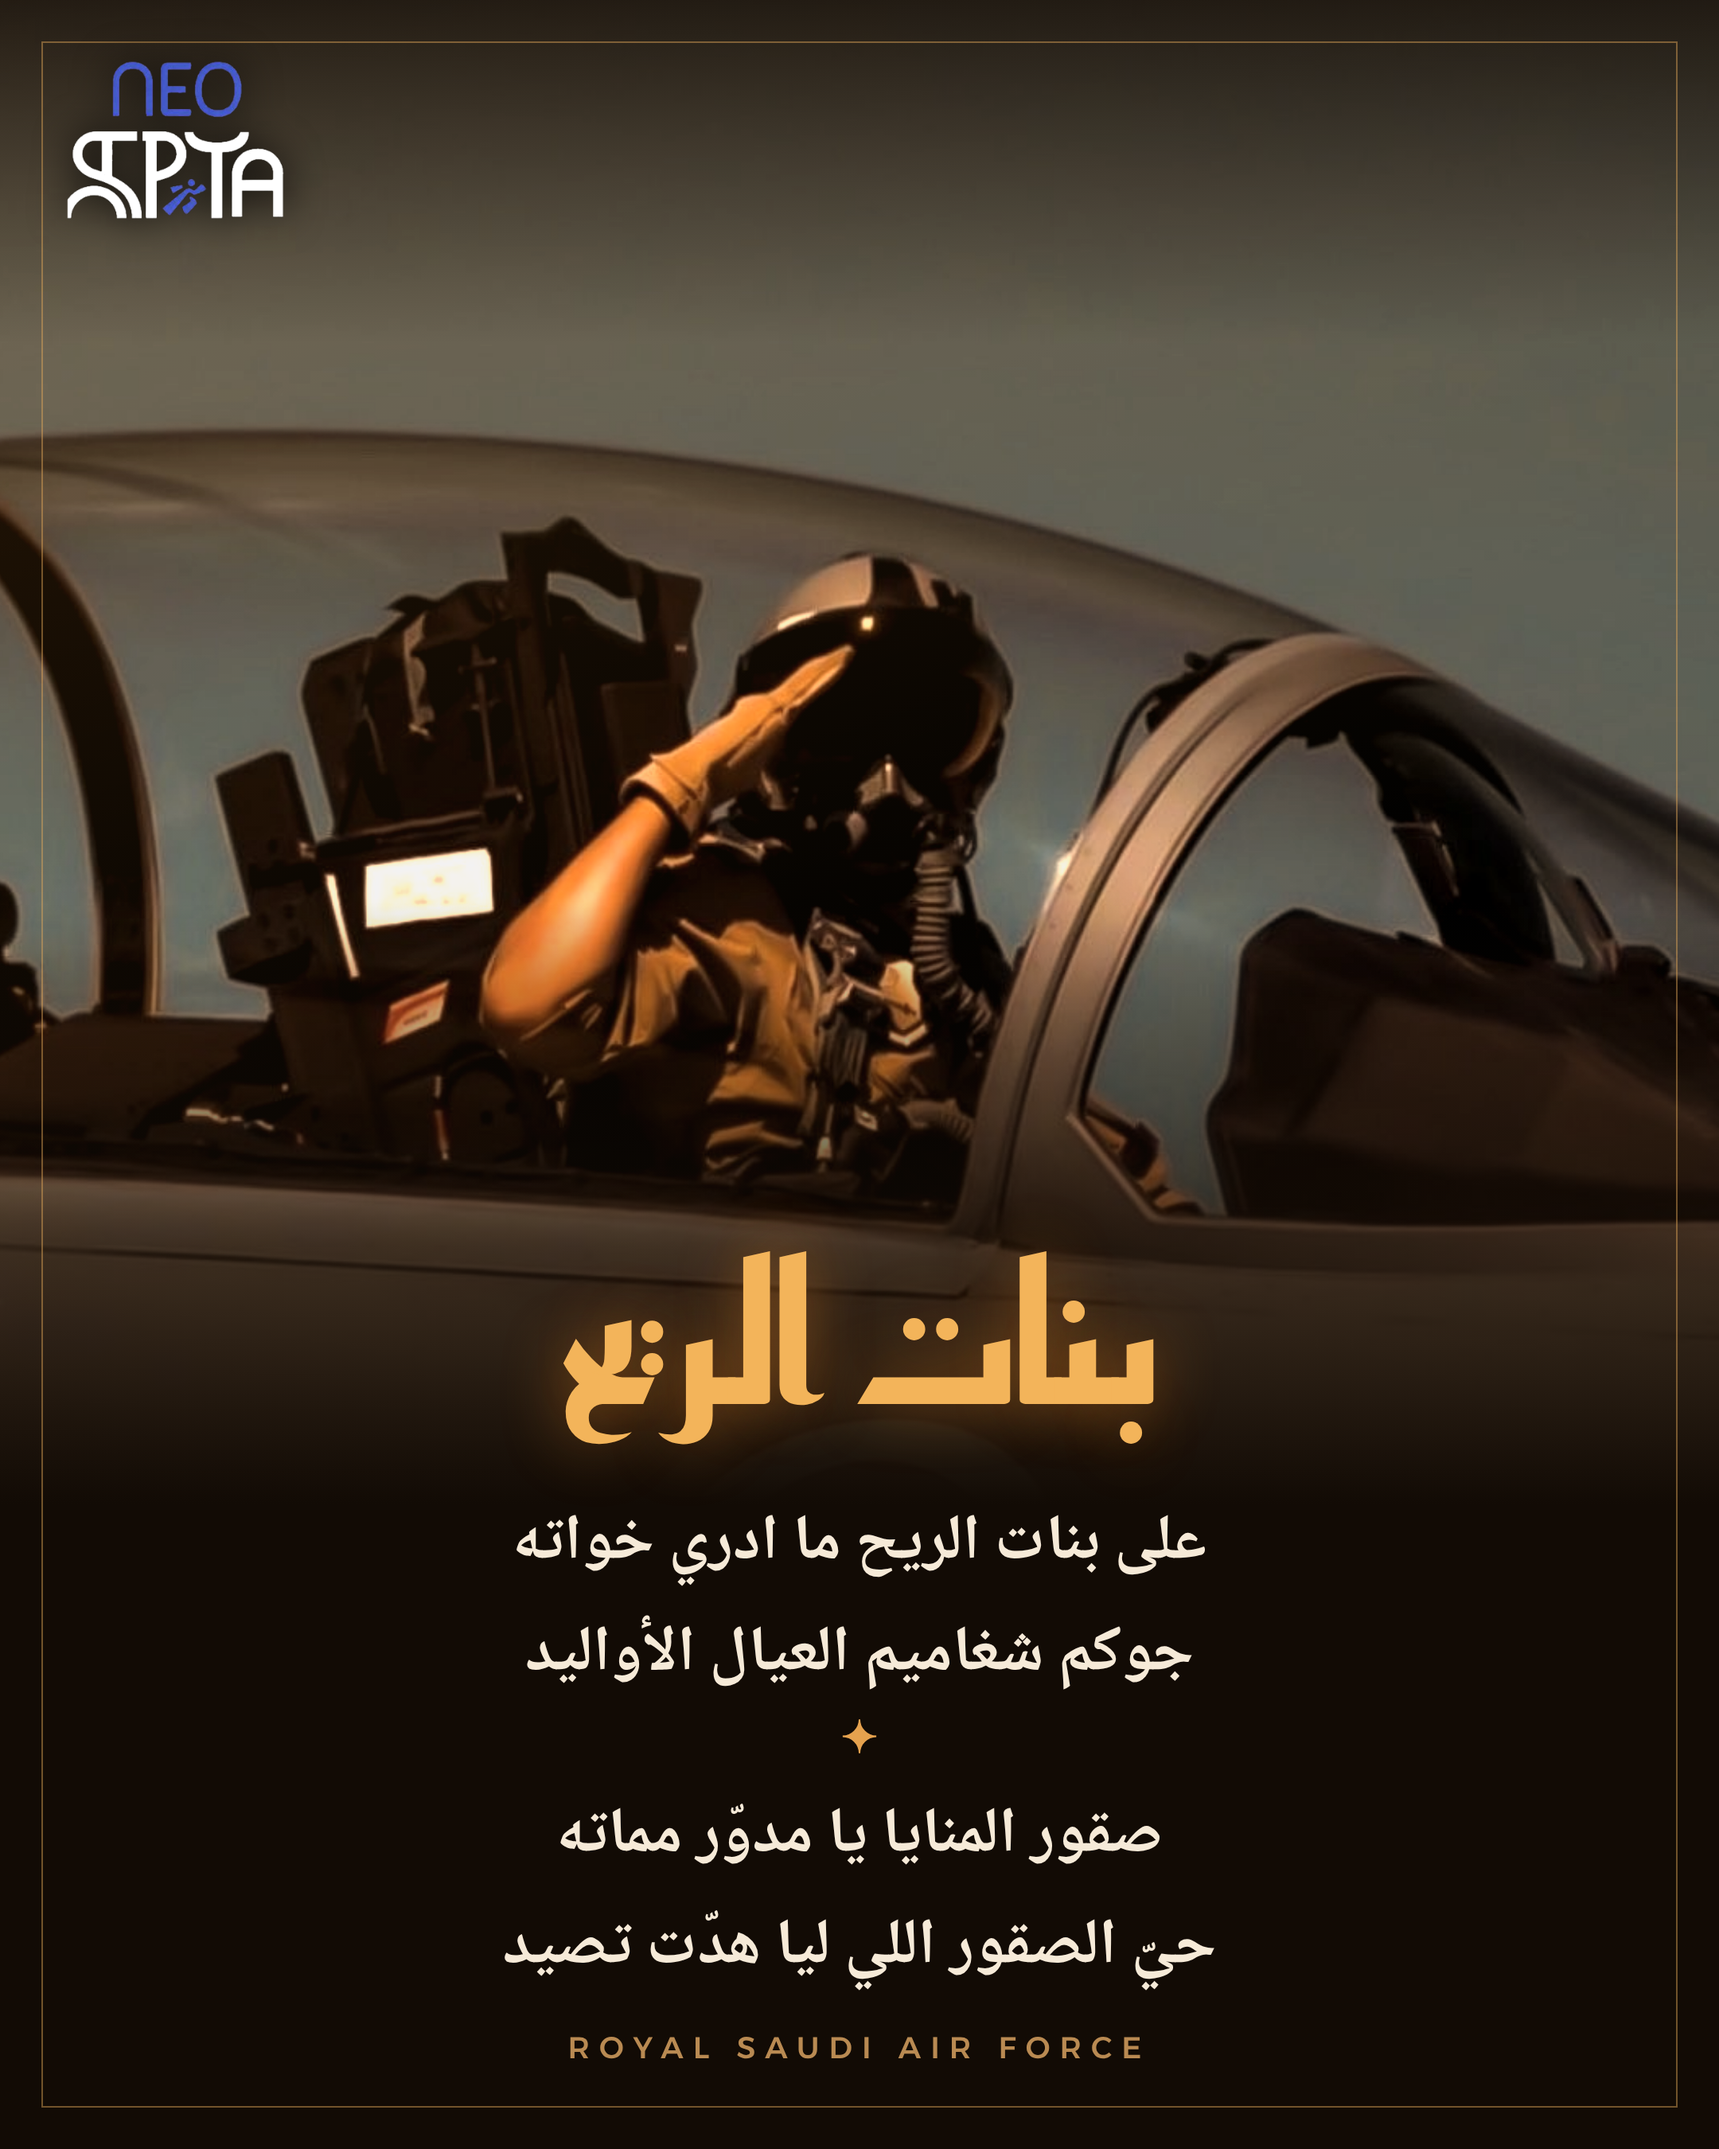
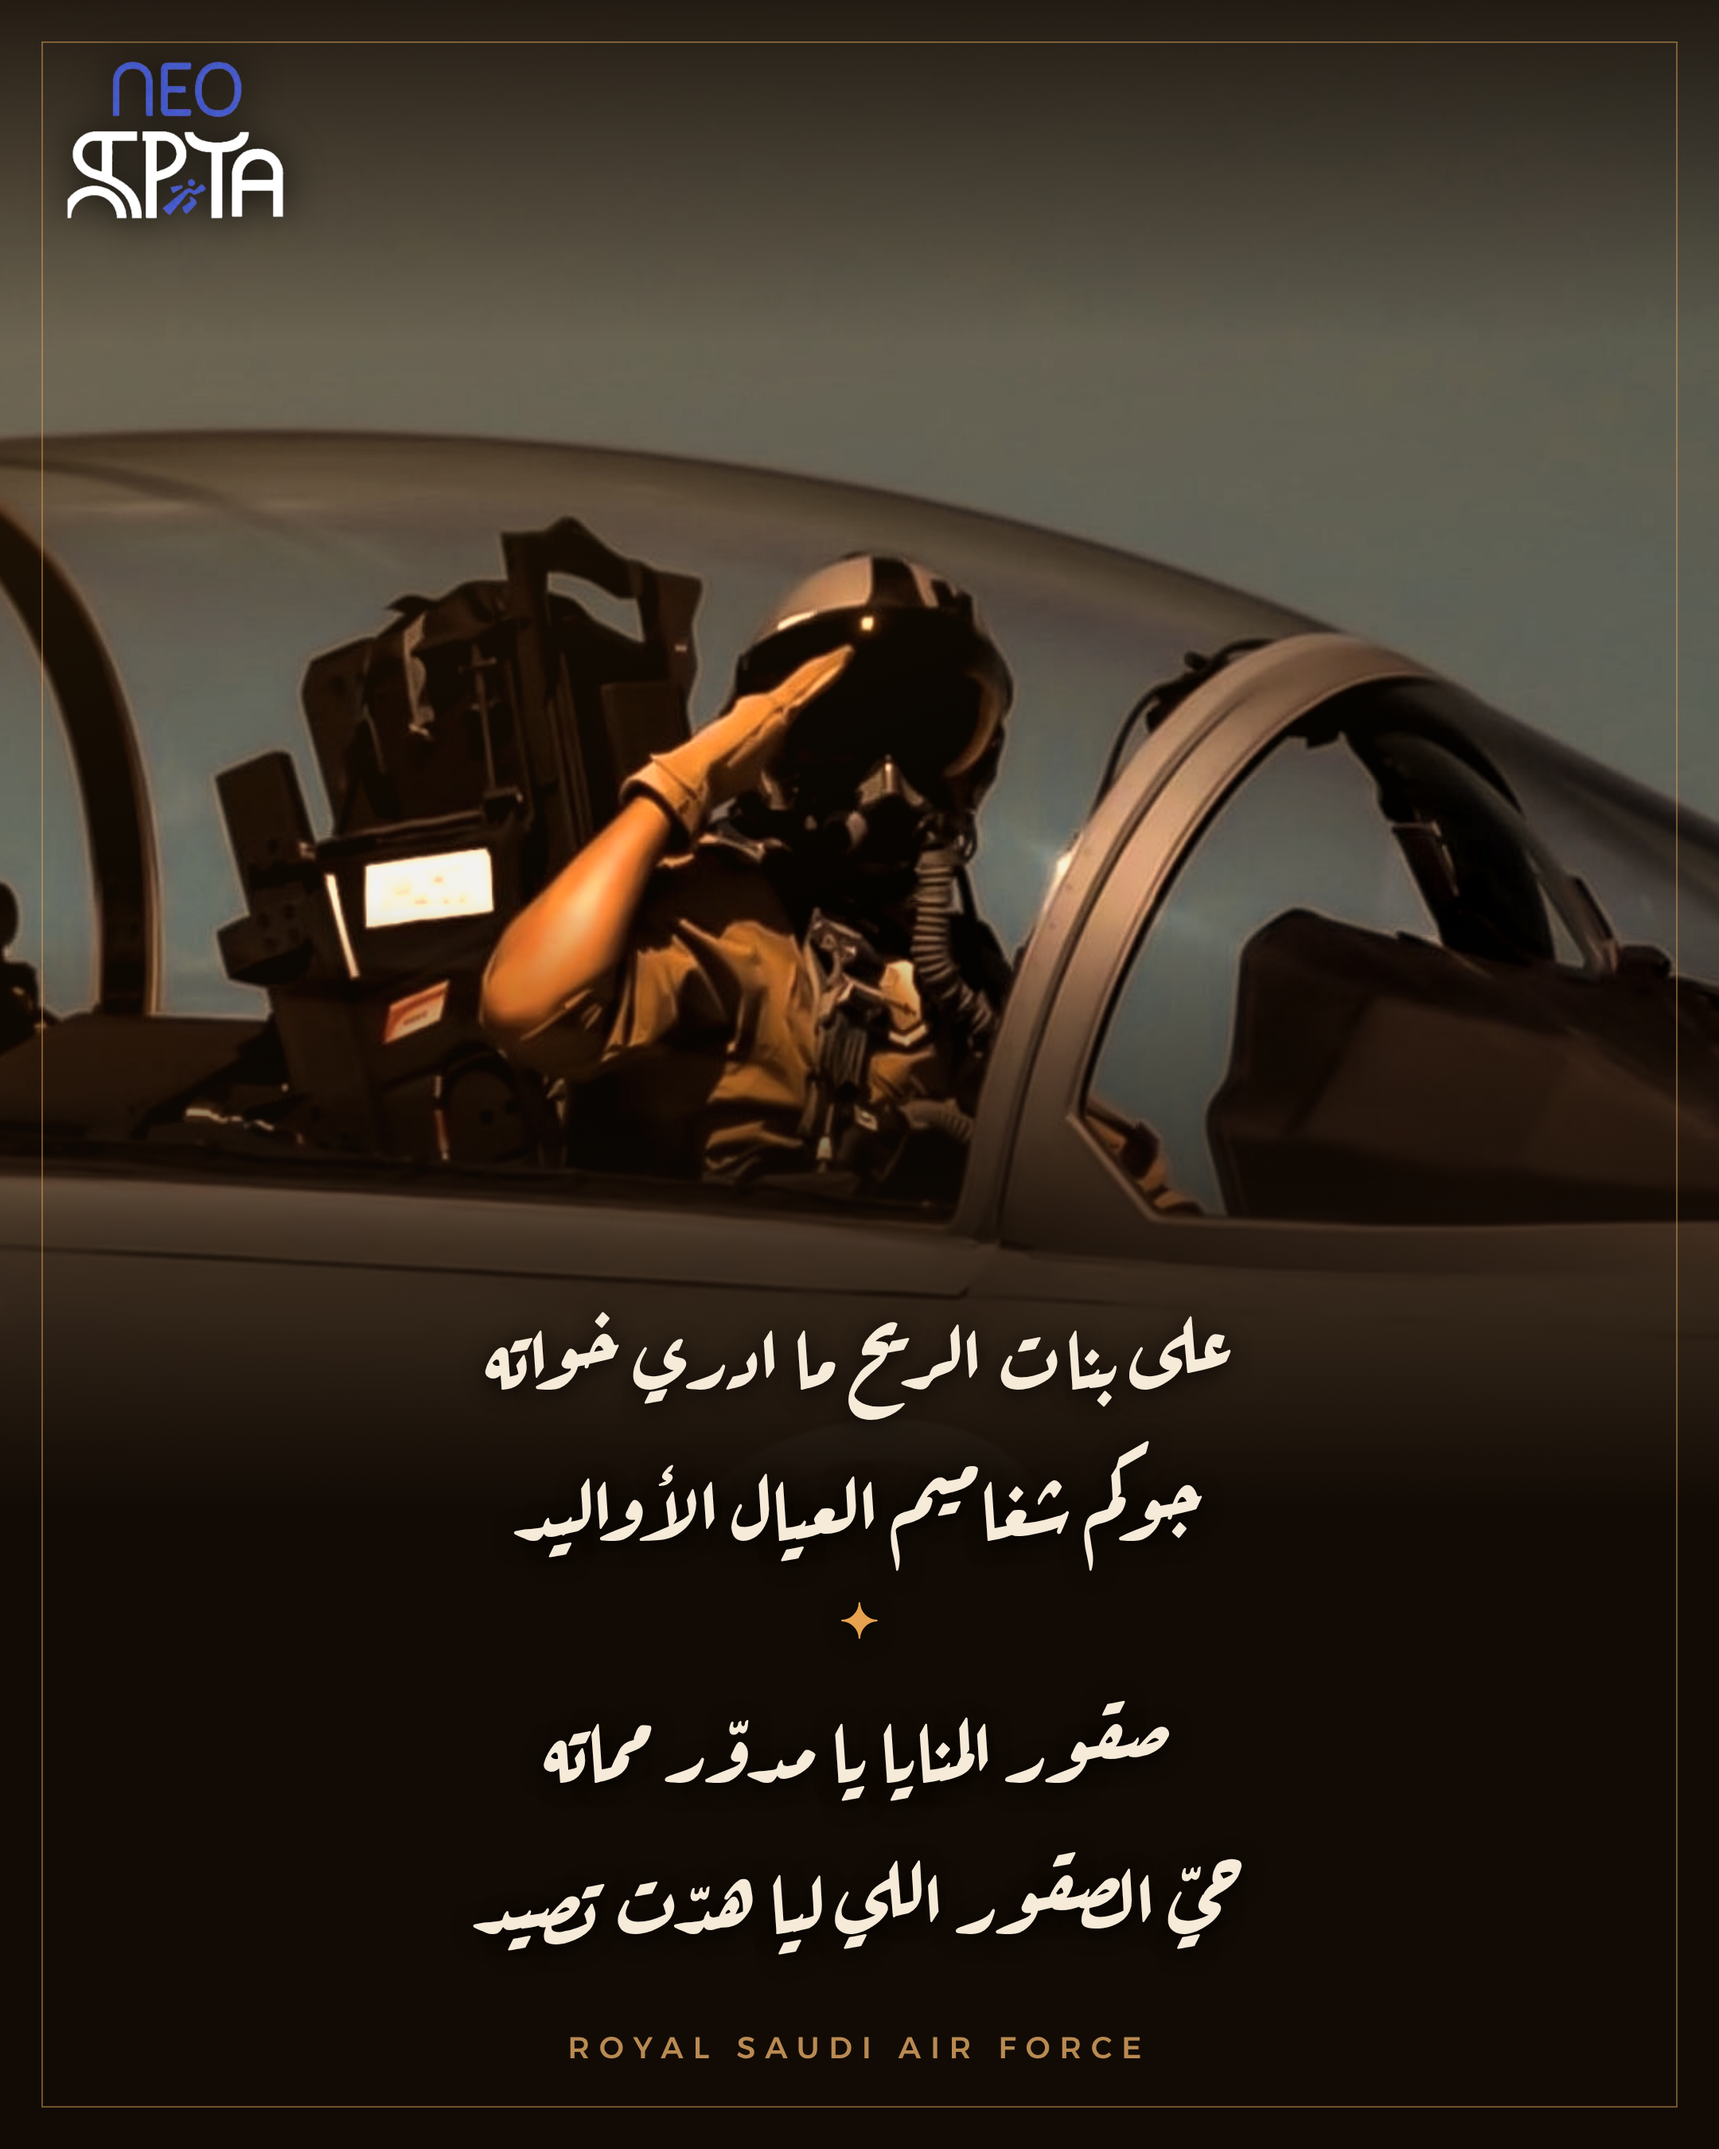
Remove big title and switch poem font to Aref Ruqaa in the three designs
Claude-Session: https://claude.ai/code/session_01DnCVLqpuxJYintuVExwKxD

Changed region(s): [[0.2792, 0.56, 0.7134, 0.9333]]

diff --git a/poster/d3-f15.html b/poster/d3-f15.html
@@ -1,5 +1,5 @@
 <!doctype html><html lang="ar" dir="rtl"><head><meta charset="utf-8">
-<link href="https://fonts.googleapis.com/css2?family=Aref+Ruqaa:wght@700&family=Amiri:wght@700&family=Alexandria:wght@500;700&display=block" rel="stylesheet">
+<link href="https://fonts.googleapis.com/css2?family=Aref+Ruqaa:wght@400;700&family=Aref+Ruqaa:wght@700&family=Amiri:wght@700&family=Alexandria:wght@500;700&display=block" rel="stylesheet">
 <style>
 *{margin:0;padding:0;box-sizing:border-box}
 html,body{width:1080px;height:1350px;background:#8fa6c8;overflow:hidden}
@@ -11,14 +11,14 @@ html,body{width:1080px;height:1350px;background:#8fa6c8;overflow:hidden}
 .neo{position:absolute;top:40px;left:44px;height:100px;z-index:5;filter:brightness(1.3) drop-shadow(0 0 10px rgba(0,0,0,.8))}
 .title{position:absolute;top:95px;left:0;right:0;text-align:center;z-index:5;font-family:'Aref Ruqaa';font-weight:700;font-size:138px;color:#fff;text-shadow:0 6px 30px rgba(0,20,60,.7)}
 .sub{position:absolute;top:350px;left:0;right:0;text-align:center;z-index:5;font-family:Alexandria;font-weight:500;font-size:22px;letter-spacing:4px;color:#d8e4f5}
-.poem{position:absolute;bottom:120px;left:0;right:0;z-index:5;font-family:Amiri;font-weight:700;color:#fff;font-size:40px;text-shadow:0 2px 12px #000}
-.v{display:flex;justify-content:center;gap:34px;margin-bottom:16px}
+.poem{position:absolute;bottom:110px;left:0;right:0;z-index:5;font-family:'Aref Ruqaa';font-weight:700;color:#fff;font-size:46px;text-shadow:0 2px 12px #000}
+.v{display:flex;justify-content:center;gap:28px;margin-bottom:18px}
 .v i{font-style:normal;color:#ffd23f}
 .foot{position:absolute;bottom:44px;left:0;right:0;text-align:center;z-index:5;font-family:Alexandria;font-weight:700;font-size:20px;color:#ffd23f;letter-spacing:1px}
 </style></head><body><div class="p">
 <img class="photo" src="f15.jpg"><div class="l top"></div><div class="l bot"></div>
 <img class="neo" src="neo_logo.png">
-<div class="title">بنات الريح</div><div class="sub">صقور المنايا · القوات الجوية الملكية السعودية</div>
+
 <div class="poem">
 <div class="v"><span>على بنات الريح ما ادري خواته</span><i>◆</i><span>جوكم شغاميم العيال الأواليد</span></div>
 <div class="v"><span>صقور المنايا يا مدوّر مماته</span><i>◆</i><span>حيّ الصقور اللي ليا هدّت تصيد</span></div>

diff --git a/poster/d2-f35.html b/poster/d2-f35.html
@@ -1,5 +1,5 @@
 <!doctype html><html lang="ar" dir="rtl"><head><meta charset="utf-8">
-<link href="https://fonts.googleapis.com/css2?family=Lalezar&family=Amiri:wght@700&family=Alexandria:wght@500;700&display=block" rel="stylesheet">
+<link href="https://fonts.googleapis.com/css2?family=Aref+Ruqaa:wght@400;700&family=Lalezar&family=Amiri:wght@700&family=Alexandria:wght@500;700&display=block" rel="stylesheet">
 <style>
 *{margin:0;padding:0;box-sizing:border-box}
 html,body{width:1080px;height:1350px;background:#04140c;overflow:hidden}
@@ -13,14 +13,14 @@ html,body{width:1080px;height:1350px;background:#04140c;overflow:hidden}
 .tag{position:absolute;top:56px;right:48px;z-index:5;font-family:Alexandria;font-weight:700;font-size:20px;color:#5fe39a;border:1.5px solid #5fe39a;padding:8px 18px;border-radius:40px}
 .title{position:absolute;top:150px;right:80px;z-index:5;font-family:Lalezar;font-size:150px;line-height:1;color:#fff}
 .title span{color:#1fd16f}
-.bar{position:absolute;top:318px;right:84px;width:140px;height:6px;background:#1fd16f;z-index:5}
-.poem{position:absolute;top:360px;right:84px;z-index:5;font-family:Amiri;font-weight:700;font-size:42px;line-height:1.6;color:#e9f5ee;text-align:right}
+.bar{position:absolute;top:170px;right:84px;width:140px;height:6px;background:#1fd16f;z-index:5}
+.poem{position:absolute;top:200px;right:84px;z-index:5;font-family:'Aref Ruqaa';font-weight:700;font-size:56px;line-height:1.65;color:#e9f5ee;text-align:right}
 .poem b{color:#7cf0ad;font-weight:700}
 .foot{position:absolute;bottom:40px;left:0;right:0;text-align:center;z-index:5;font-family:Alexandria;font-weight:700;font-size:22px;color:#fff;text-shadow:0 2px 10px #000}
 </style></head><body><div class="p"><div class="grid"></div>
 <div class="ph"><img src="f35c.jpg"></div>
 <img class="neo" src="neo_logo.png"><div class="tag">القوات الجوية الملكية السعودية</div>
-<div class="title">بنات <span>الريح</span></div><div class="bar"></div>
+<div class="bar"></div>
 <div class="poem">على <b>بنات الريح</b> ما ادري خواته<br>جوكم شغاميم العيال الأواليد<br><b>صقور المنايا</b> يا مدوّر مماته<br>حيّ الصقور اللي ليا هدّت تصيد</div>
 <div class="foot">اللهم احفظ جنودنا وسدّد رميهم 🇸🇦</div>
 </div></body></html>

diff --git a/poster/d1-pilot.html b/poster/d1-pilot.html
@@ -1,5 +1,5 @@
 <!doctype html><html lang="ar" dir="rtl"><head><meta charset="utf-8">
-<link href="https://fonts.googleapis.com/css2?family=Reem+Kufi:wght@700&family=Noto+Naskh+Arabic:wght@700&family=Alexandria:wght@500;700&display=block" rel="stylesheet">
+<link href="https://fonts.googleapis.com/css2?family=Aref+Ruqaa:wght@400;700&family=Reem+Kufi:wght@700&family=Noto+Naskh+Arabic:wght@700&family=Alexandria:wght@500;700&display=block" rel="stylesheet">
 <style>
 *{margin:0;padding:0;box-sizing:border-box}
 html,body{width:1080px;height:1350px;background:#120b05;overflow:hidden}
@@ -13,13 +13,12 @@ html,body{width:1080px;height:1350px;background:#120b05;overflow:hidden}
 .frame{position:absolute;inset:26px;border:1.5px solid rgba(230,170,90,.45);z-index:4;pointer-events:none}
 .title{position:absolute;top:780px;left:0;right:0;text-align:center;z-index:5;font-family:'Reem Kufi';font-size:120px;line-height:1;color:#f3b45a;letter-spacing:2px;
  text-shadow:0 0 40px rgba(243,140,40,.45)}
-.poem{position:absolute;top:935px;left:0;right:0;text-align:center;z-index:5;font-family:'Noto Naskh Arabic';font-weight:700;color:#f6ead8;font-size:40px;line-height:1.75}
-.poem .s{color:#e6a24e;font-size:28px;display:block;line-height:1;margin:6px 0 10px}
+.poem{position:absolute;top:800px;left:0;right:0;text-align:center;z-index:5;font-family:'Aref Ruqaa';font-weight:700;color:#f6ead8;font-size:54px;line-height:1.75;text-shadow:0 2px 14px rgba(0,0,0,.8)}
+.poem .s{color:#e6a24e;font-size:30px;display:block;line-height:1;margin:10px 0 18px}
 .foot{position:absolute;bottom:52px;left:0;right:0;text-align:center;z-index:5;font-family:Alexandria;font-size:19px;letter-spacing:6px;color:#b98a52;direction:ltr}
 </style></head><body><div class="p">
 <img class="photo" src="pilot.jpg"><div class="l warm"></div><div class="l top"></div><div class="l bot"></div>
 <div class="frame"></div><img class="neo" src="neo_logo.png">
-<div class="title">بنات الريح</div>
 <div class="poem">على بنات الريح ما ادري خواته<br>جوكم شغاميم العيال الأواليد<span class="s">✦</span>صقور المنايا يا مدوّر مماته<br>حيّ الصقور اللي ليا هدّت تصيد</div>
 <div class="foot">ROYAL SAUDI AIR FORCE</div>
 </div></body></html>
